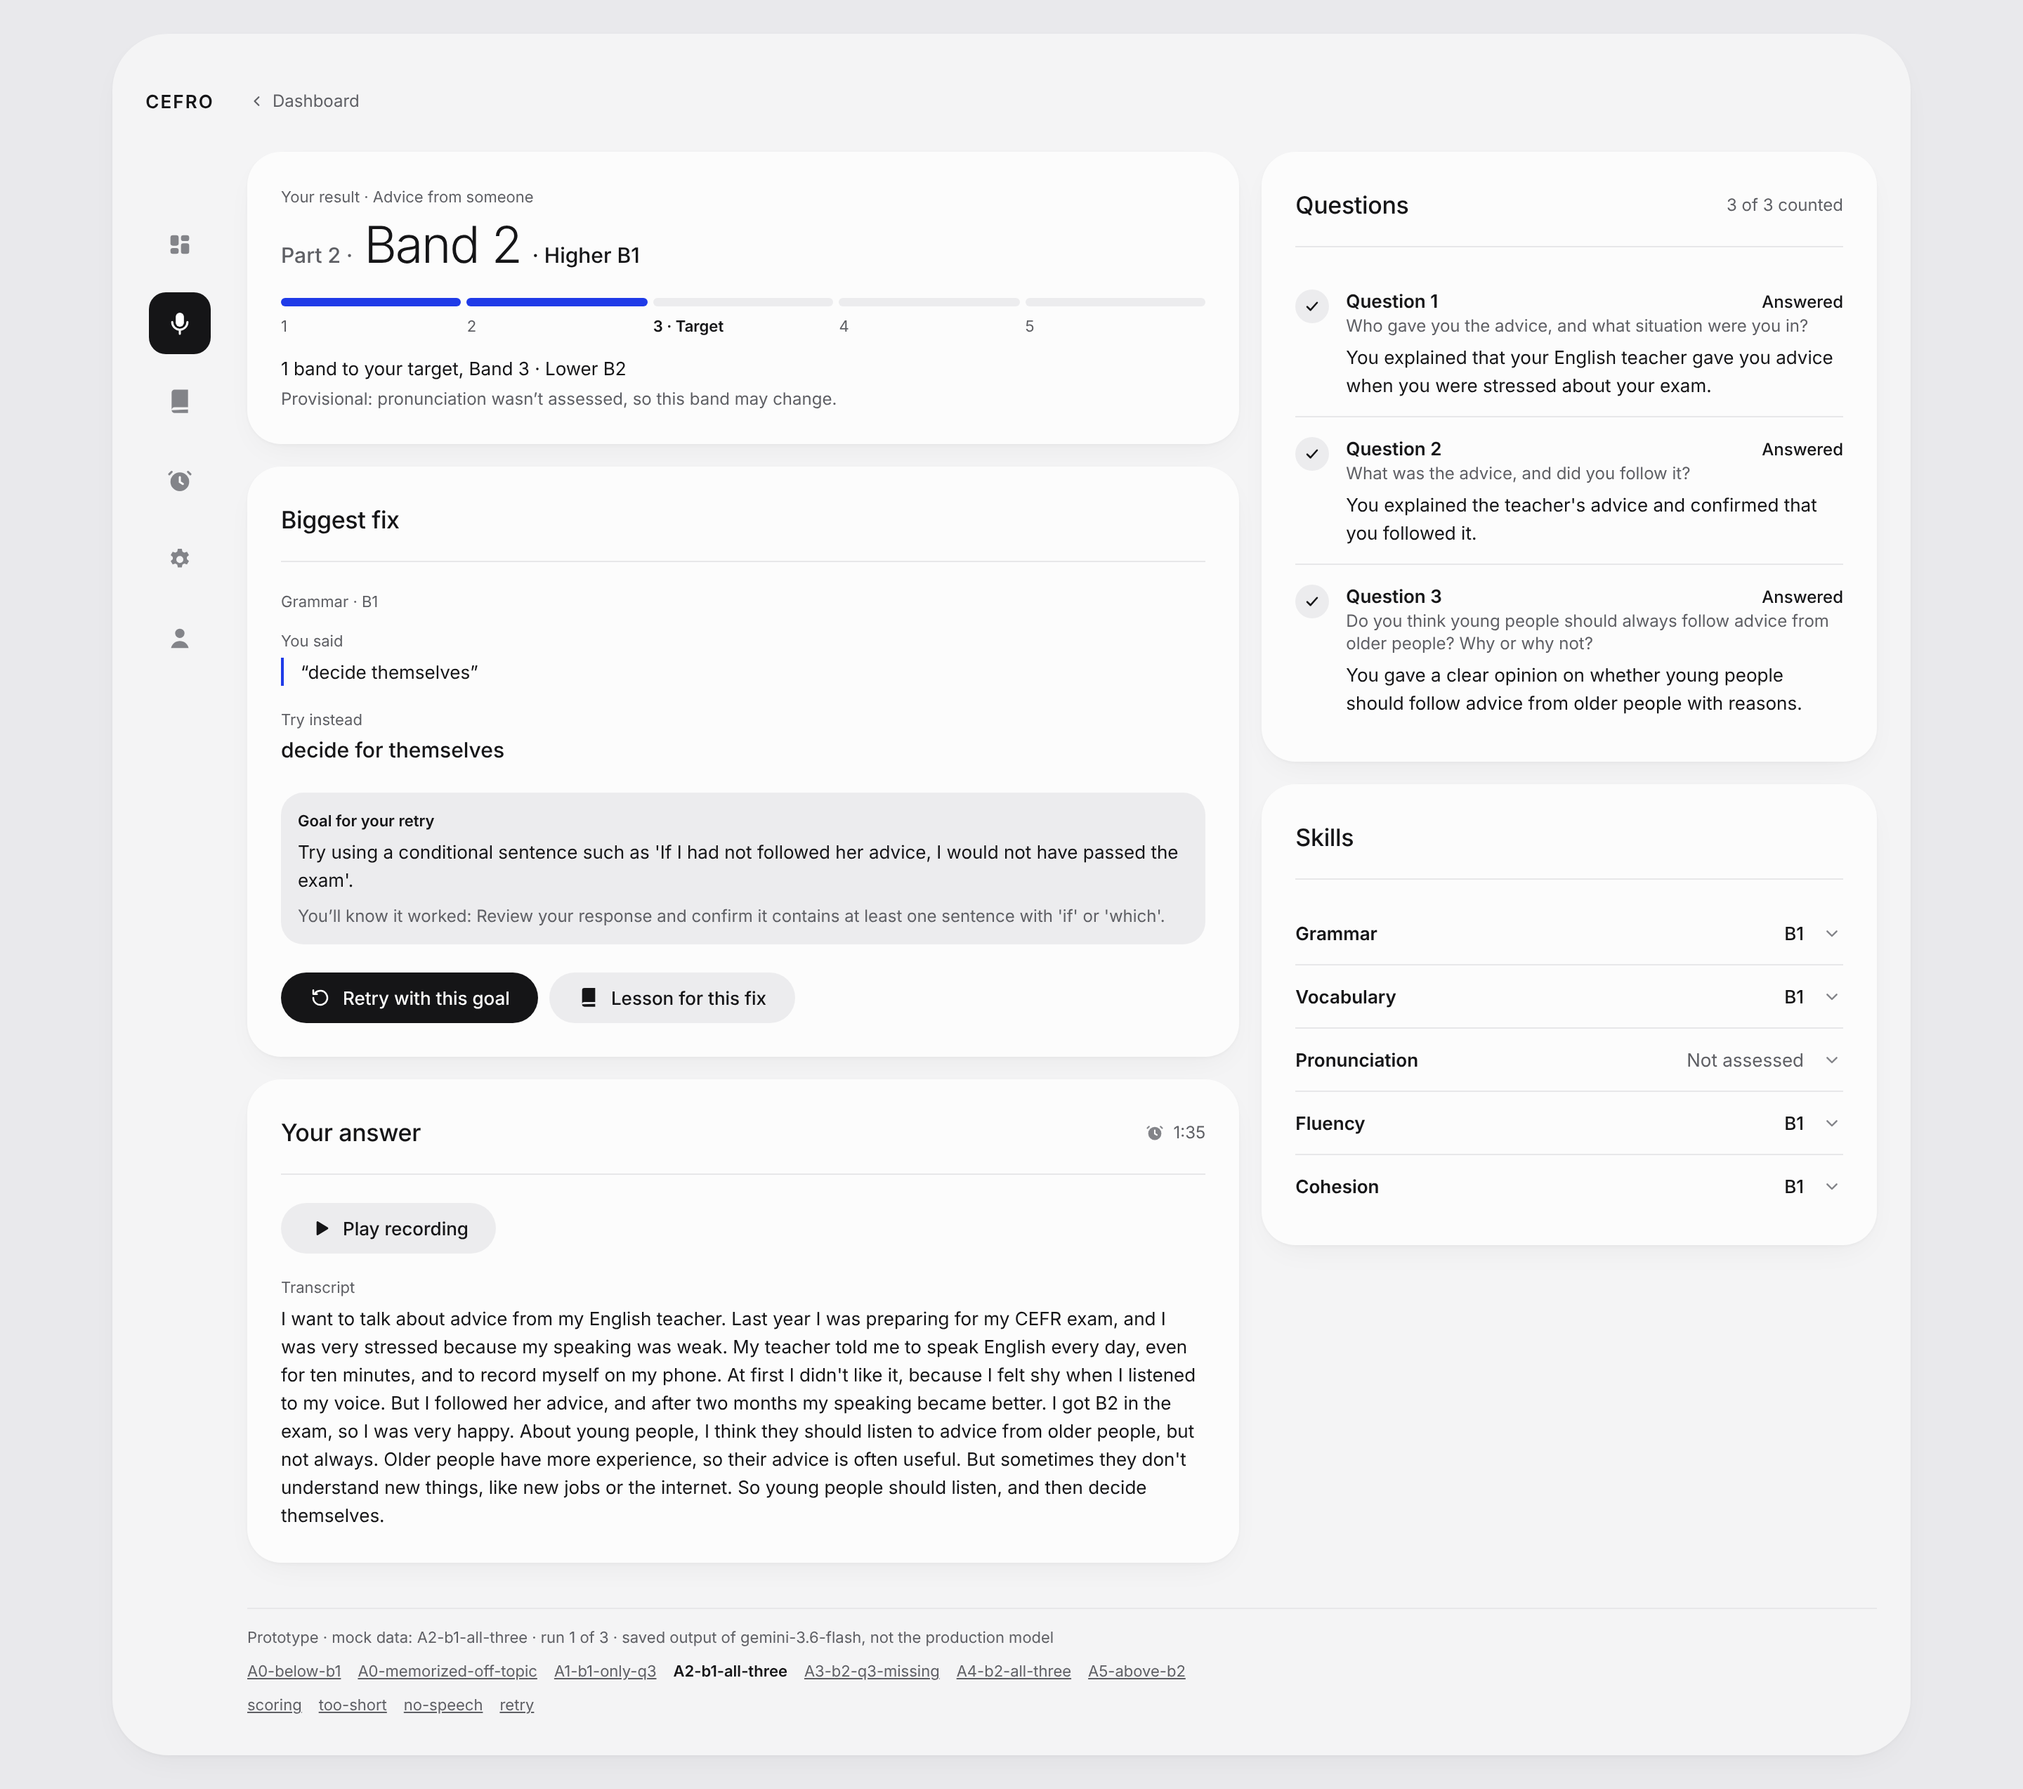
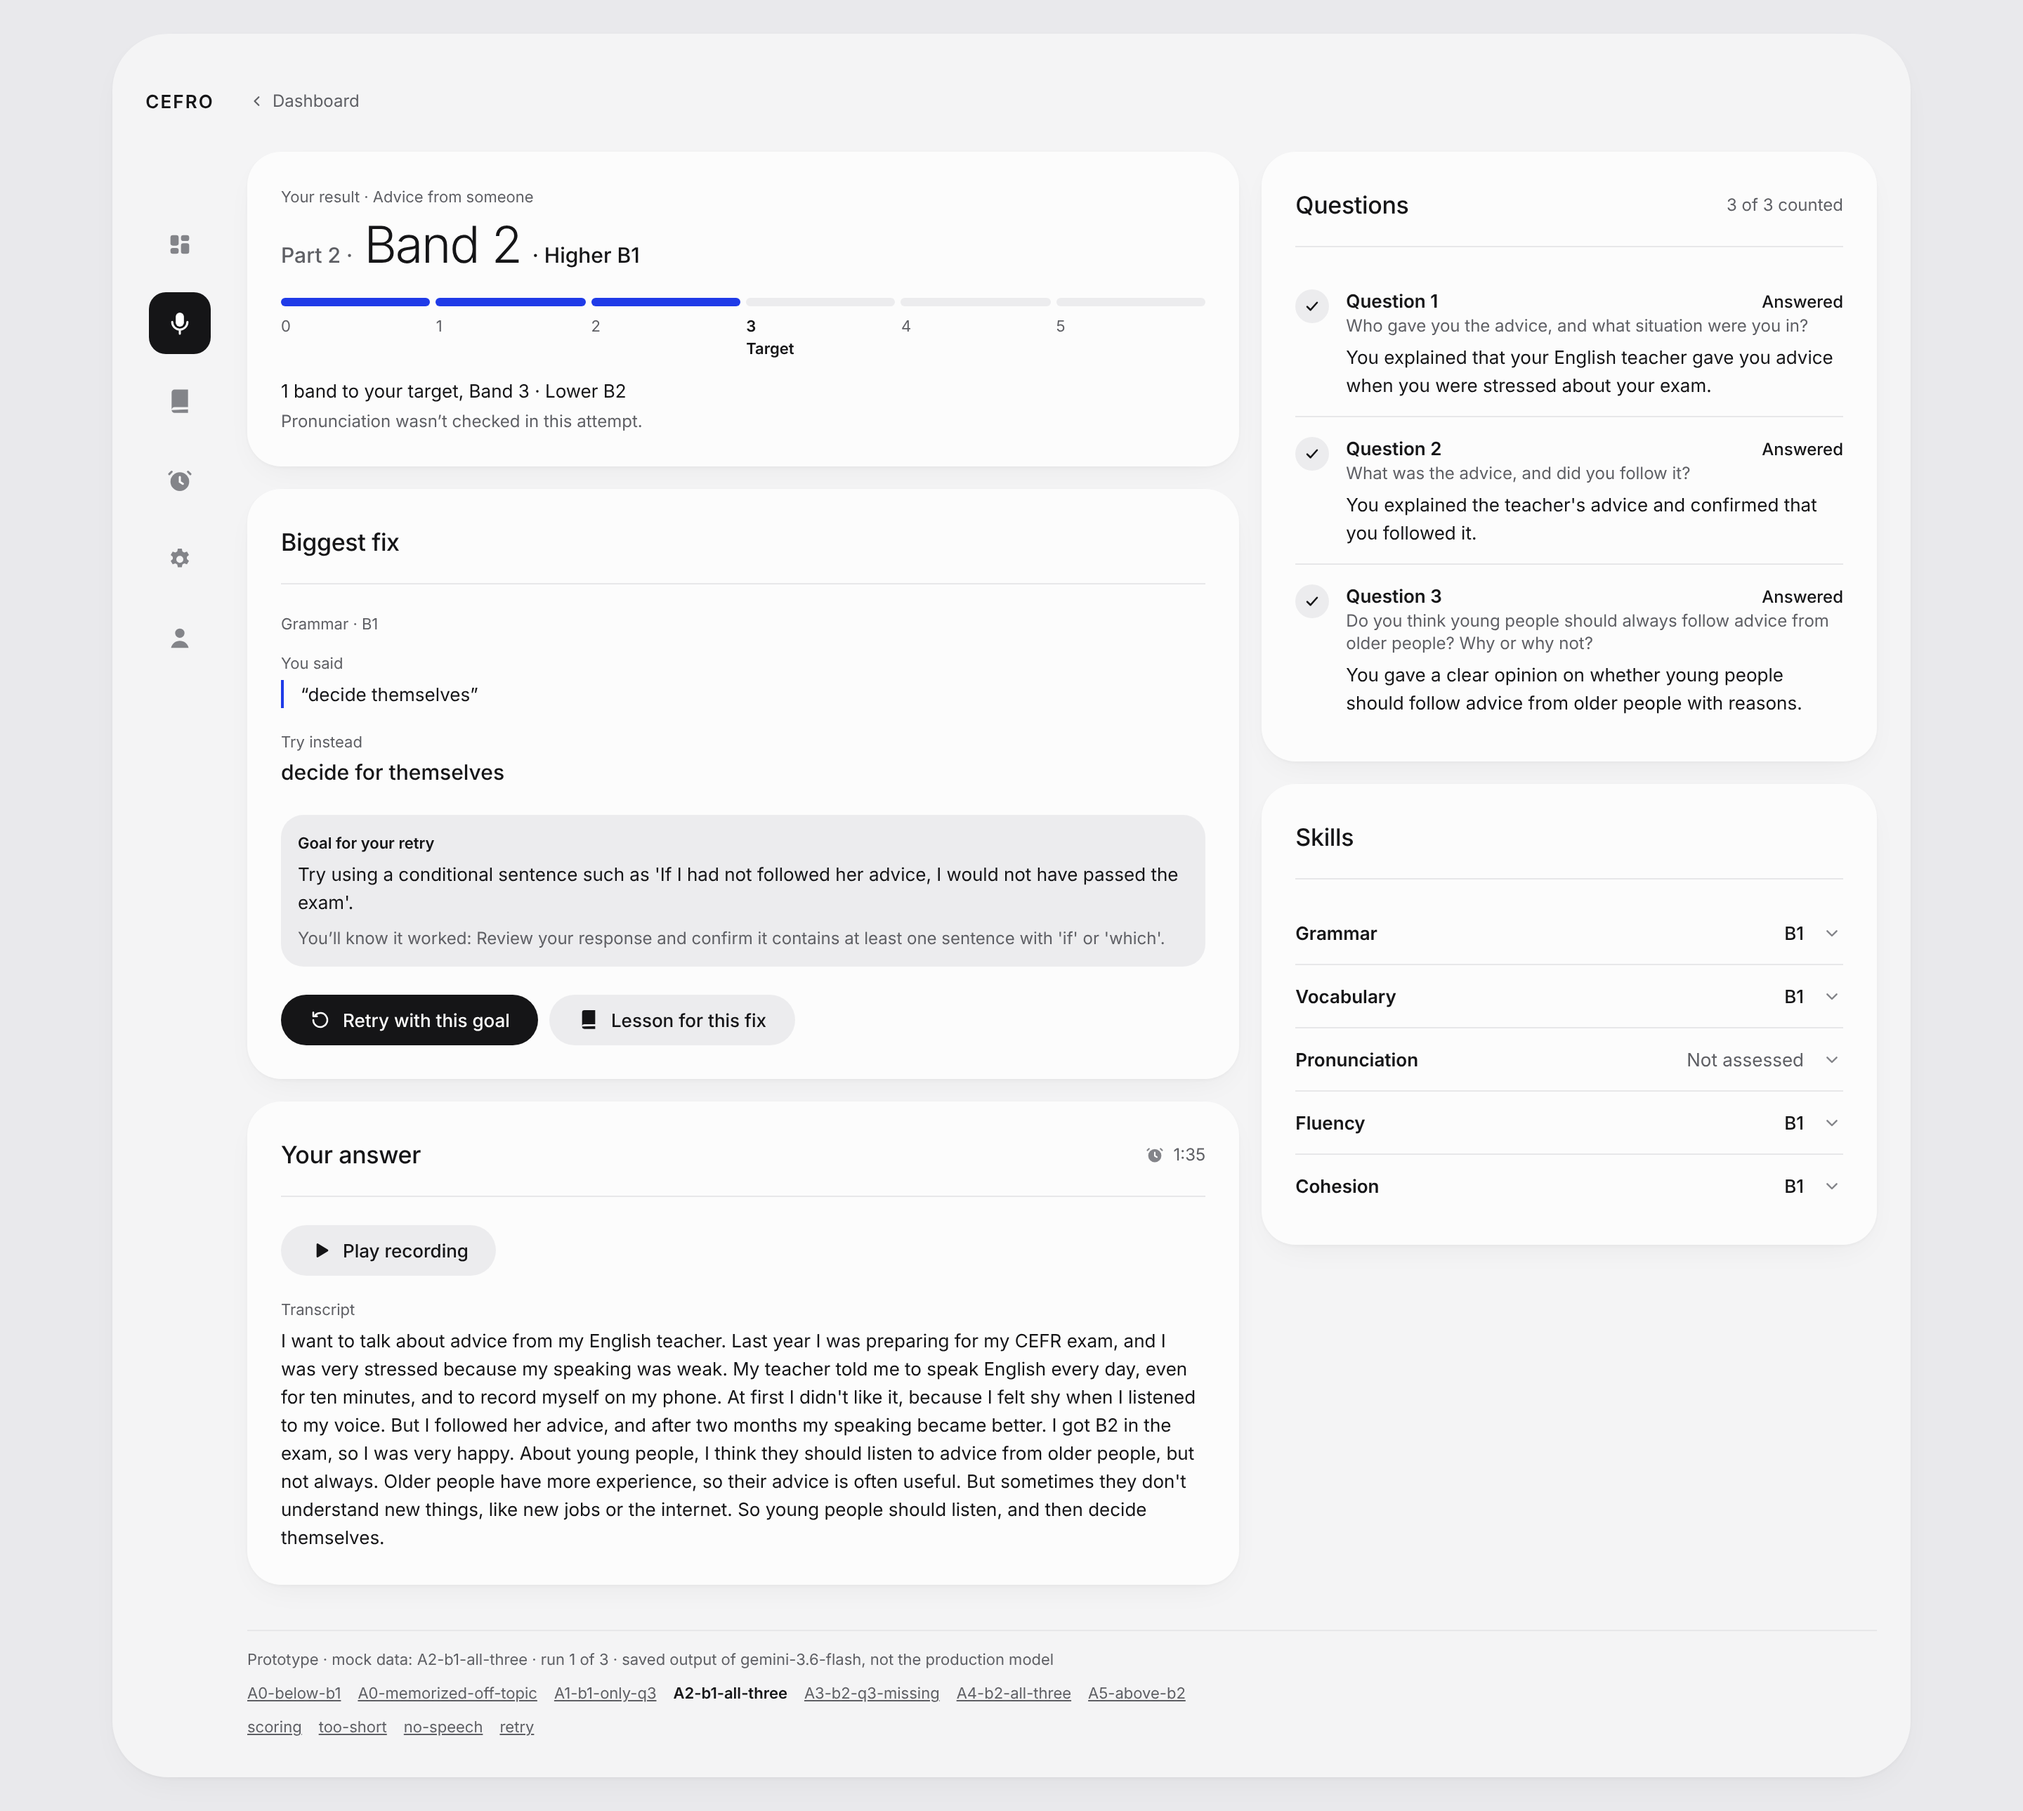
fix(result): 0–5 band bar, plain pronunciation note, A0-below-b1 opens on run 1
- The band bar has a segment for band 0 (bands are 0–5); the target stays named,
  with "Target" on its own line under its number so it never wraps mid-label
- "Provisional…" is replaced by "Pronunciation wasn't checked in this attempt."
  (result card and the Pronunciation skill)
- Every anchor opens on run 1; A0-below-b1 run 1 is band 2, runs 2 and 3 stay
  available with &run= (run 3 is the band 0 run)
- Screenshots re-taken

Claude-Session: https://claude.ai/code/session_012h7y6fFKFMNGT6TLEtPh6o

diff --git a/src/features/result/sections.tsx b/src/features/result/sections.tsx
@@ -73,7 +73,7 @@ function ResultCard({ view, className }: { view: ResultView; className?: string 
       <BandMeter band={view.band} bandMax={view.bandMax} target={view.target.band} className="mt-5" />
       <p className="mt-3 text-body text-fg">{view.target.text}</p>
       {view.zeroReason && ZERO_TEXT[view.zeroReason] && <p className="mt-1 text-label text-fg-muted">{ZERO_TEXT[view.zeroReason]}</p>}
-      {view.provisional && <p className="mt-1 text-label text-fg-muted">Provisional: pronunciation wasn&rsquo;t assessed, so this band may change.</p>}
+      {view.provisional && <p className="mt-1 text-label text-fg-muted">Pronunciation wasn&rsquo;t checked in this attempt.</p>}
       {retry?.goalText && (
         <p className="mt-4 border-t border-line pt-3 text-label text-fg-muted">
           Last goal: <span className="text-fg">{retry.goalText}</span>
@@ -83,20 +83,22 @@ function ResultCard({ view, className }: { view: ResultView; className?: string 
   );
 }
 
-/** One segment per band (1…max): filled up to the band; the target segment is named under it. Not colour alone: the words carry it. */
+/** One segment per band (0…max, band 0 exists): filled up to the band; the target segment is named under it. Not colour alone: the words carry it. */
 function BandMeter({ band, bandMax, target, className }: { band: number; bandMax: number; target: number; className?: string }) {
-  const segments = Array.from({ length: bandMax }, (_, i) => i + 1);
+  const segments = Array.from({ length: bandMax + 1 }, (_, i) => i);
+  const columns = { gridTemplateColumns: `repeat(${bandMax + 1}, minmax(0, 1fr))` };
   return (
-    <div className={className} role="img" aria-label={`Band ${band} of ${bandMax}. Target: band ${target}.`}>
-      <div className="grid gap-1" style={{ gridTemplateColumns: `repeat(${bandMax}, minmax(0, 1fr))` }}>
+    <div className={className} role="img" aria-label={`Band ${band} on a scale of 0 to ${bandMax}. Target: band ${target}.`}>
+      <div className="grid gap-1" style={columns}>
         {segments.map((n) => (
           <div key={n} className={cx("h-1.5 rounded-full", n <= band ? "bg-accent" : "bg-well")} />
         ))}
       </div>
-      <div className="mt-1.5 grid gap-1" style={{ gridTemplateColumns: `repeat(${bandMax}, minmax(0, 1fr))` }}>
+      <div className="mt-1.5 grid gap-1" style={columns}>
         {segments.map((n) => (
           <span key={n} className={cx("text-caption", n === target ? "font-semibold text-fg" : "text-fg-muted")}>
-            {n === target ? `${n} · Target` : n}
+            {n}
+            {n === target && <span className="block">Target</span>}
           </span>
         ))}
       </div>
@@ -203,7 +205,7 @@ function SkillsCard({ view, className }: { view: ResultView; className?: string 
               </summary>
               <div className="pb-4 pr-7">
                 {s.level === null ? (
-                  <p className="text-body text-fg-muted">{view.pronunciationNote ?? "This skill wasn't assessed."} The band is provisional until it is.</p>
+                  <p className="text-body text-fg-muted">{view.pronunciationNote ?? "Pronunciation wasn't checked in this attempt."}</p>
                 ) : (
                   <>
                     {s.quote && <blockquote className="border-l-2 border-accent pl-3 text-body text-fg">“{s.quote}”</blockquote>}

diff --git a/src/features/result/view-model.test.ts b/src/features/result/view-model.test.ts
@@ -62,9 +62,11 @@ describe("result page view model (saved live fixtures, no provider)", () => {
     expect(view.fix.tryInstead).toBe(LIVE_36_FLASH_FIXTURES["A1-b1-only-q3"].runs[0].evaluation.result.assessment.questions[0].model_answer);
   });
 
-  it("A0-below-b1 defaults to the run with the expected band 0 (run 3) and says why", () => {
-    expect(selectMock({ anchor: "A0-below-b1" }).run).toBe(3);
-    const view = scored({ anchor: "A0-below-b1" });
+  it("A0-below-b1 defaults to run 1 (band 2); runs 2 and 3 stay available, run 3 is band 0 and says why", () => {
+    expect(selectMock({ anchor: "A0-below-b1" }).run).toBe(1);
+    expect(scored({ anchor: "A0-below-b1" }).headline).toBe("Part 2 · Band 2 · Higher B1");
+    expect(scored({ anchor: "A0-below-b1", run: "2" }).band).toBe(2);
+    const view = scored({ anchor: "A0-below-b1", run: "3" });
     expect(view.band).toBe(0);
     expect(view.zeroReason).toBe("below_B1");
     expect(view.target.text).toBe("3 bands to your target, Band 3 · Lower B2");
@@ -76,12 +78,15 @@ describe("result page view model (saved live fixtures, no provider)", () => {
     expect(view.fix.quote).toBe("I would like to talk about my favourite hobby, which is playing football.");
   });
 
-  it("pronunciation is 'Not assessed' (audio step off in every saved run) and the band is provisional", () => {
+  it("pronunciation is 'Not assessed' (audio step off in every saved run) and the page says it wasn't checked", () => {
     const view = scored({ anchor: "A4-b2-all-three" });
     expect(view.skills.find((s) => s.feature === "pronunciation")).toMatchObject({ level: null, levelLabel: "Not assessed" });
     expect(view.provisional).toBe(true);
     expect(view.target.text).toBe("1 band above your target, Band 3 · Lower B2");
-    expect(view.pronunciationNote).toMatch(/audio check didn't run/);
+    expect(view.pronunciationNote).toBe("Pronunciation wasn't checked in this attempt.");
+    const html = render(stateFor({ anchor: "A4-b2-all-three" }));
+    expect(html).toContain("Pronunciation wasn&#x27;t checked in this attempt.");
+    expect(html).not.toMatch(/provisional/i);
   });
 
   it("states: scoring while evaluating, couldn't score for too short (real scorer) and no speech", () => {

diff --git a/src/features/result/mock-data.ts b/src/features/result/mock-data.ts
@@ -4,8 +4,8 @@
  * same view model real attempts will use. Loading them never calls a provider.
  *
  * Switches (for screenshots and reviews):
- *   ?anchor=<id>   which fixture (default A2-b1-all-three); ?run=1..3 picks a run (default: the first run whose band
- *                  is the anchor's expected band, e.g. run 3 for A0-below-b1)
+ *   ?anchor=<id>   which fixture (default A2-b1-all-three); &run=1..3 picks a run (default run 1; for A0-below-b1
+ *                  that is band 2, and run 3 is the band 0 run)
  *   ?state=        scored (default) | scoring | too-short | no-speech | retry
  */
 import { scoreBand } from "@/domain/evaluation/multilevel/band-scoring";
@@ -42,8 +42,7 @@ export function selectMock(query: { anchor?: string | string[]; run?: string | s
   const anchor = one(query.anchor) && LIVE_36_FLASH_FIXTURES[one(query.anchor)!] ? one(query.anchor)! : DEFAULT_ANCHOR;
   const file = LIVE_36_FLASH_FIXTURES[anchor];
   const requested = Number(one(query.run));
-  const expectedRun = file._fixture.bands.findIndex((b) => b === file._fixture.expectedBand) + 1 || 1;
-  const run = Number.isInteger(requested) && requested >= 1 && requested <= file.runs.length ? requested : expectedRun;
+  const run = Number.isInteger(requested) && requested >= 1 && requested <= file.runs.length ? requested : 1;
   const state = (RESULT_STATES as readonly string[]).includes(one(query.state) ?? "") ? (one(query.state) as ResultMockState) : "scored";
   return { anchor, run, state, file };
 }

diff --git a/src/features/result/view-model.ts b/src/features/result/view-model.ts
@@ -155,10 +155,10 @@ const VERDICT: Record<QuestionStatus, { verdict: QuestionVerdict; label: string 
 };
 
 const AUDIO_REASON: Record<NonNullable<MultilevelResult["audio"]["reason"]>, string> = {
-  disabled: "The audio check didn't run for this answer, so pronunciation wasn't scored.",
-  no_audio: "There was no recording to listen to, so pronunciation wasn't scored.",
-  failed: "The audio check failed, so pronunciation wasn't scored.",
-  unclear: "The recording was too unclear to judge pronunciation.",
+  disabled: "Pronunciation wasn't checked in this attempt.",
+  no_audio: "Pronunciation wasn't checked in this attempt: there was no recording to listen to.",
+  failed: "Pronunciation wasn't checked in this attempt: the audio check failed.",
+  unclear: "Pronunciation wasn't checked in this attempt: the recording was too unclear.",
 };
 
 export function buildResultView(

diff --git a/docs/design-system.md b/docs/design-system.md
@@ -202,8 +202,8 @@ saved live evaluator output from `test/fixtures/live-3.6-flash/` (gemini-3.6-fla
   evaluator's own `SpeakingEvaluation` (`result: MultilevelResult`), plus the rubric's band table. Real attempts plug in
   by building that `ResultSource` from the database instead of `features/result/mock-data.ts`.
 - **Quality report optional.** `evaluation.quality` is optional and never read; the page shows no warning for it.
-- **Phone, top to bottom:** Result ("Part 2 · Band 2 · Higher B1", a band meter with the target named, the distance
-  to the target, "Provisional" when pronunciation was not assessed) → Questions (one row each: Answered / Partly
+- **Phone, top to bottom:** Result ("Part 2 · Band 2 · Higher B1", a 0–5 band meter (band 0 exists) with the target named, the distance
+  to the target, "Pronunciation wasn't checked in this attempt." when it was not assessed) → Questions (one row each: Answered / Partly
   answered / Not counted, with a check, half circle or cross glyph and the evaluator's one-line note) → Biggest fix
   (the student's quote, "Try instead", the retry goal, the black "Retry with this goal", flagged "Lesson for this fix")
   → Skills (each feature folded in a `<details>`: level, then quote and why; Pronunciation "Not assessed" when the audio
@@ -217,8 +217,8 @@ saved live evaluator output from `test/fixtures/live-3.6-flash/` (gemini-3.6-fla
   too_short`; no speech = failure `transcription_empty`; black "Record again"), Retry ("Band 2 → 3", lime "+1 band",
   "Goal met" read from the evaluator's retry review, else from the judgements: the last goal's skill went up a level or
   its question is now answered; skill rows show "B1 → B2").
-- **Switches:** `?anchor=<fixture id>` (`&run=1..3`; default is the first run with the anchor's expected band, so
-  `A0-below-b1` shows run 3, band 0), `?state=scoring|too-short|no-speech|retry`, `?flags=off`.
+- **Switches:** `?anchor=<fixture id>` (`&run=1..3`, default run 1; `A0-below-b1` run 1 is band 2, run 3 is the
+  band 0 run), `?state=scoring|too-short|no-speech|retry`, `?flags=off`.
 - **New flags:** `fixLesson`, `recordingPlayback`. **New icons:** `play`, `partly`, `cross`. **New style:** `PILL_QUIET`.
 - **Checks:** `src/features/result/view-model.test.ts` builds all 19 saved runs, renders every anchor and state with
   flags on and off, and asserts one black button (none while scoring) and no text under 11 px. The screenshots were
